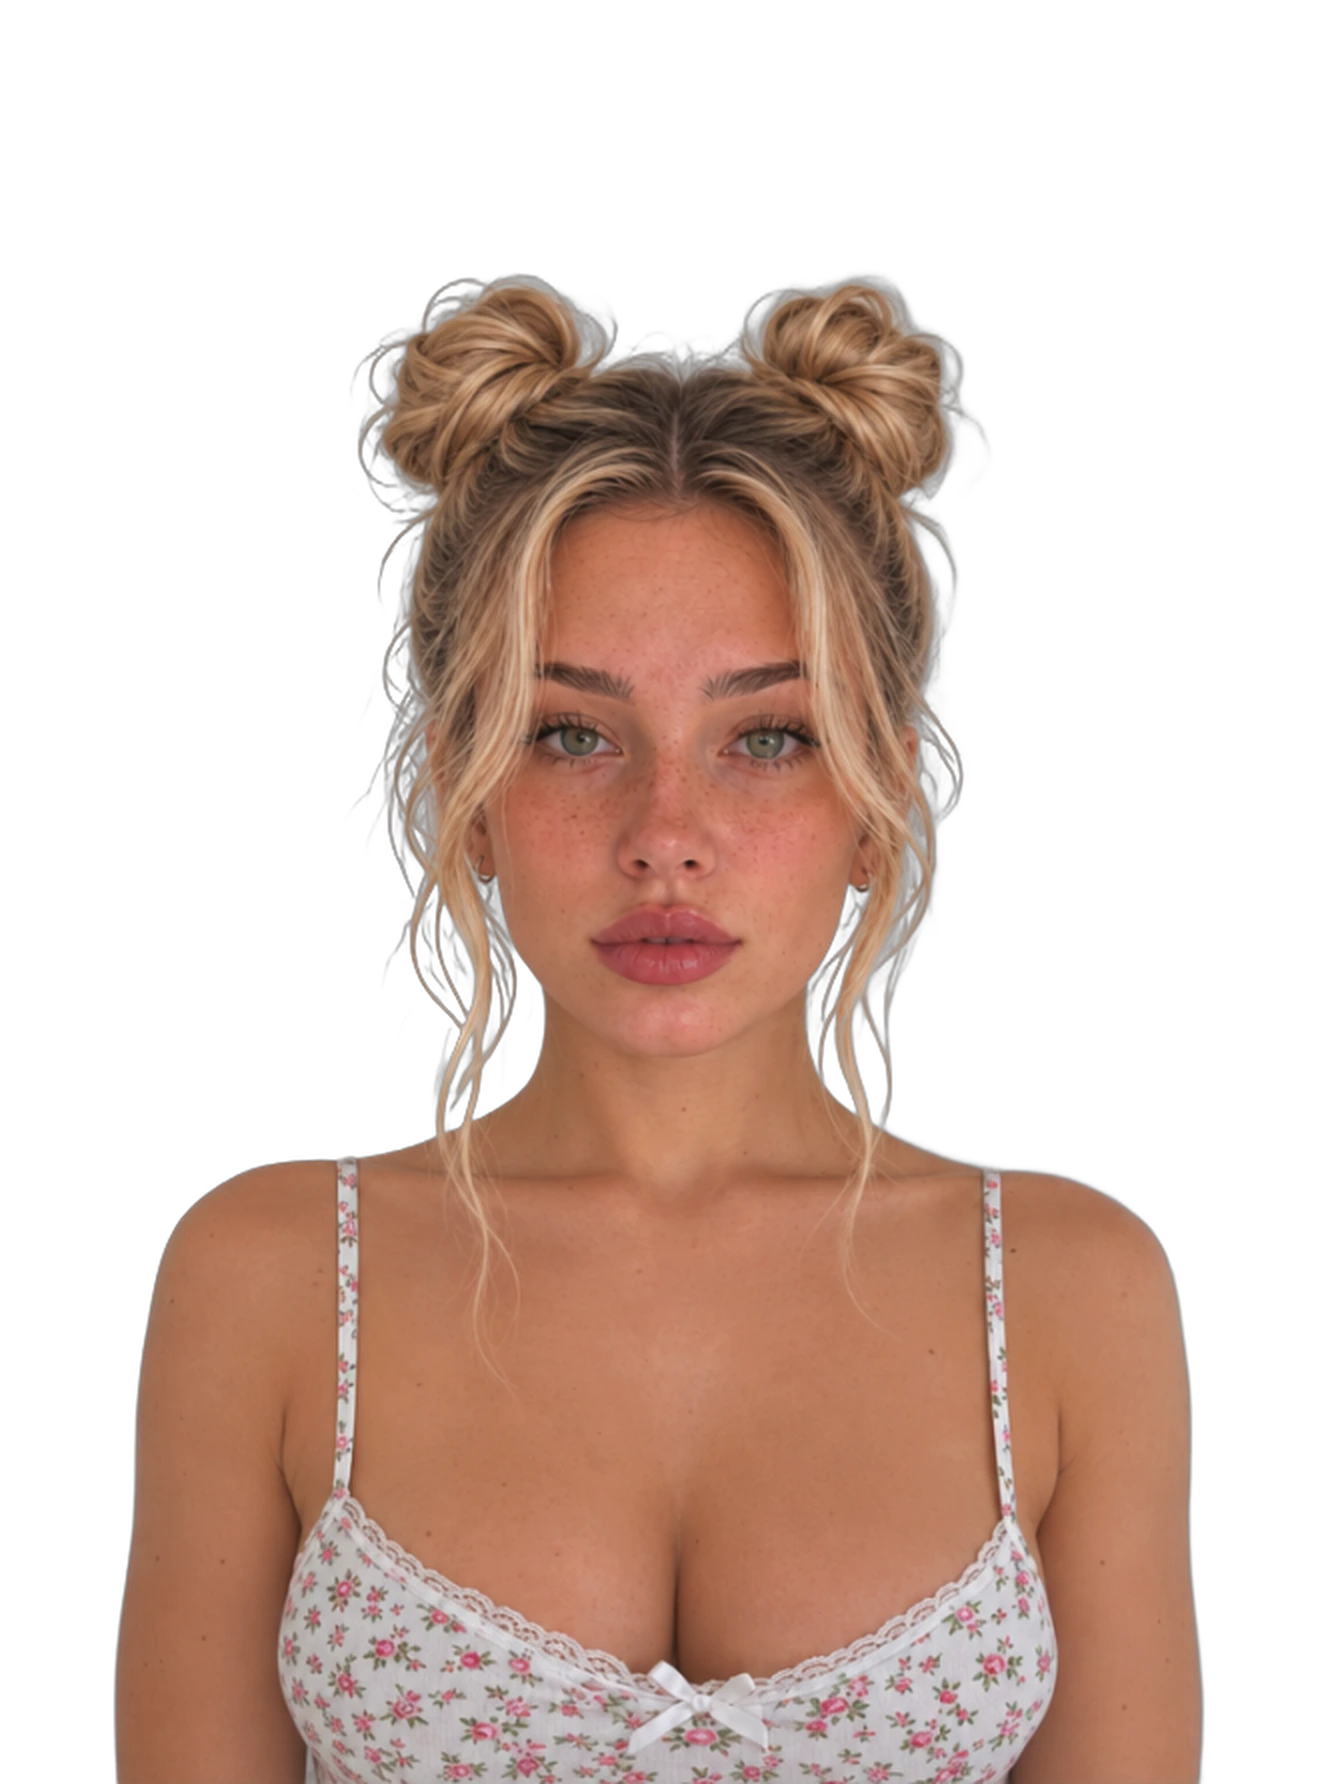
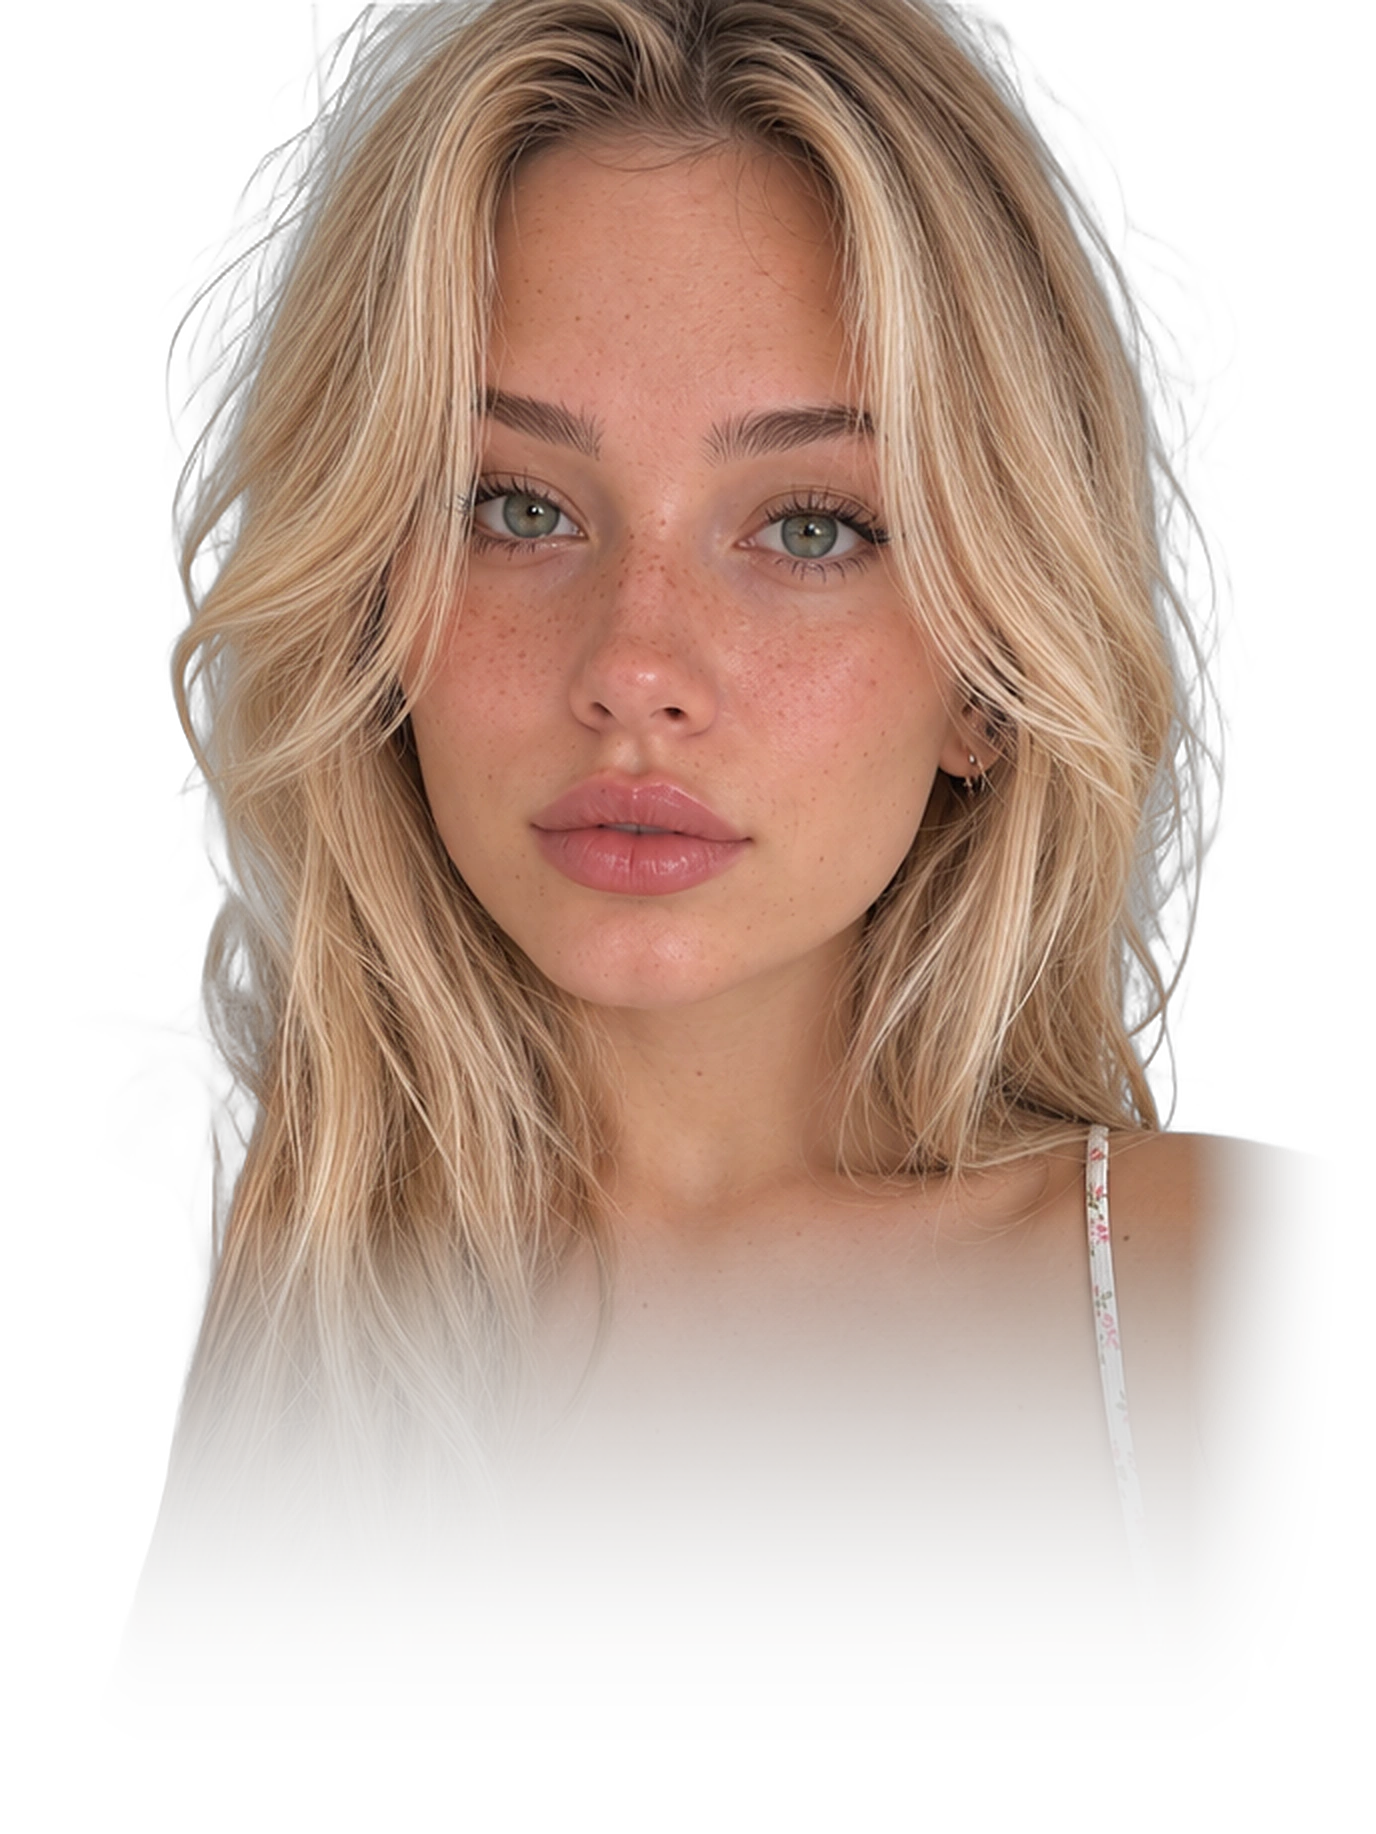
Hero: Kelly chest-up portrait with soft fade
Claude-Session: https://claude.ai/code/session_01LopeR6w6xxcLsmToY8WoWL

diff --git a/index.html b/index.html
@@ -226,7 +226,7 @@
       <div class="ring" id="ring" aria-hidden="true"></div>
       <div class="floor"></div>
       <div class="head" id="head">
-        <img id="face" src="kelly_cut.webp" alt="Kelly, an Unreal Agency AI model">
+        <img id="face" src="kelly_cut.webp?v=3" alt="Kelly, an Unreal Agency AI model">
         <div class="shine" id="shine"></div>
       </div>
       <div class="chip a"><span class="dot"></span>Kelly · online now</div>
